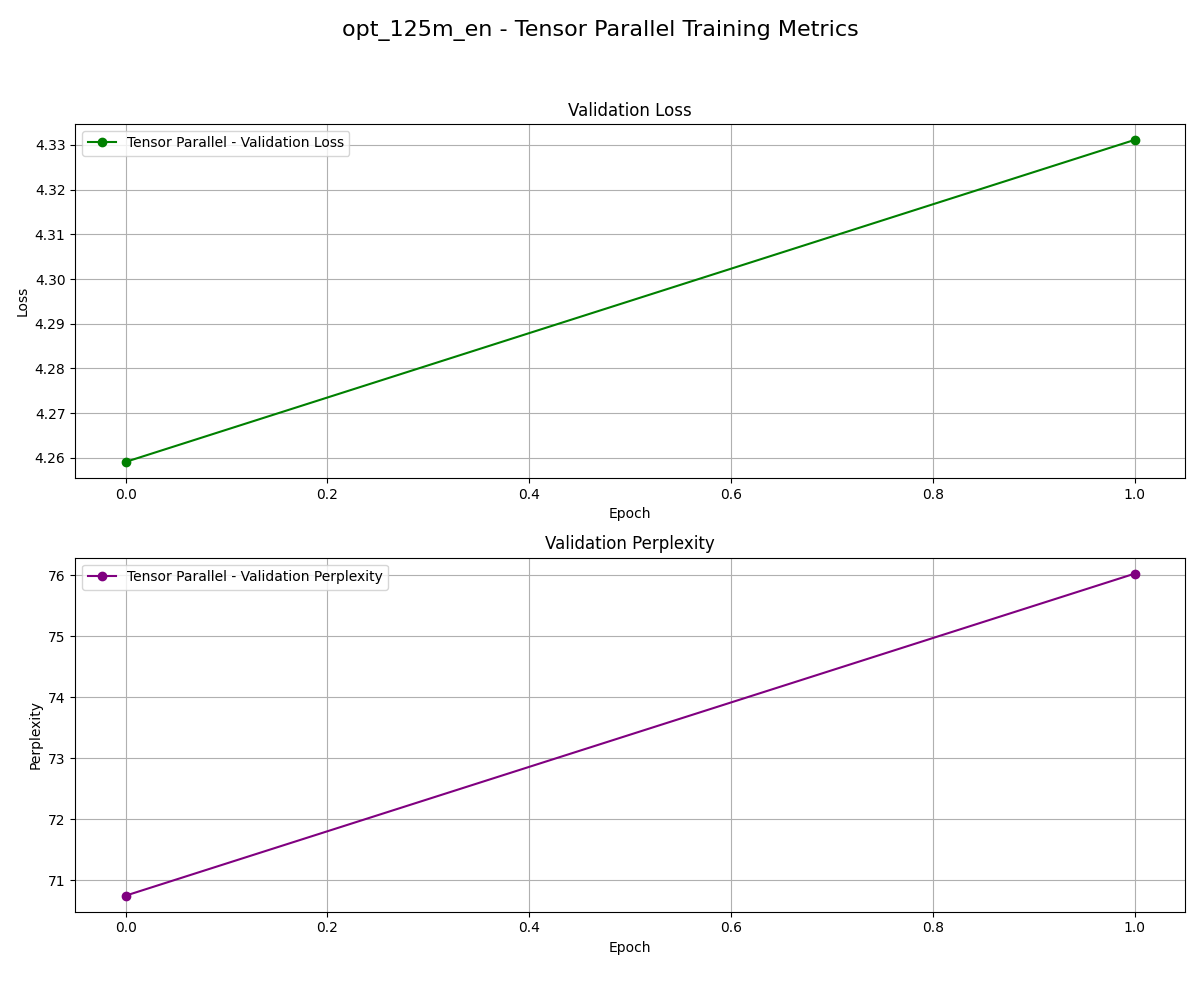
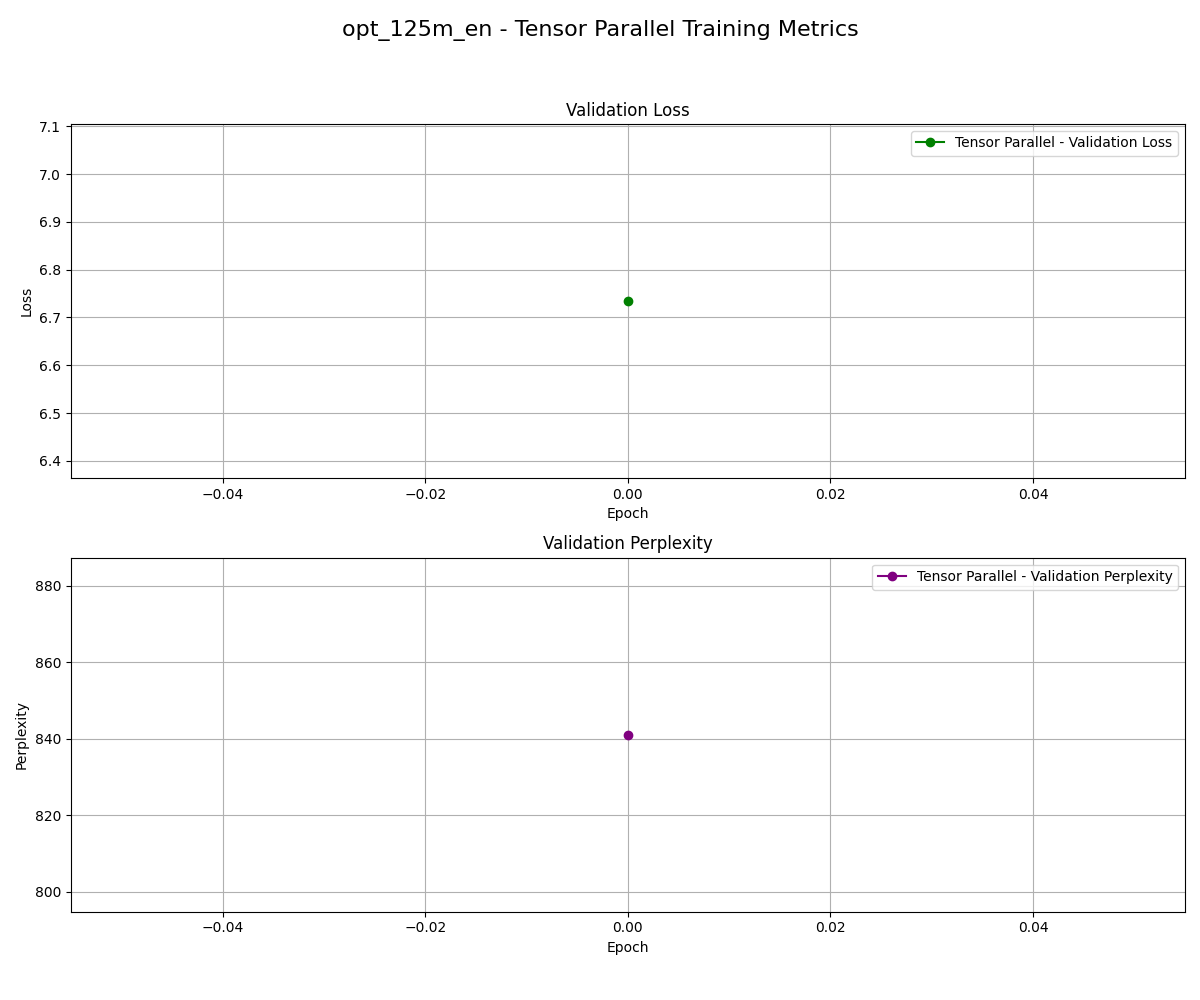
Implemeting oom solution and testing on opt 6.7b model and only loading tokenizer

diff --git a/keras/src/distribution/tensor_parallel/test_models.py b/keras/src/distribution/tensor_parallel/test_models.py
@@ -21,7 +21,8 @@ except Exception:
 
 # --- Backend and Device Configuration ---
 os.environ["KERAS_BACKEND"] = "jax"
-os.environ["XLA_FLAGS"] = "--xla_force_host_platform_device_count=12"
+# Force host device count to simulate distributed environment if physical GPUs aren't enough
+os.environ["XLA_FLAGS"] = "--xla_force_host_platform_device_count=8"
 
 import jax
 import keras_hub
@@ -31,6 +32,7 @@ import tensorflow_datasets as tfds
 
 import keras
 
+# Ensure TF doesn't hog GPU memory needed by JAX
 tf.config.set_visible_devices([], "GPU")
 
 logging.basicConfig(level=logging.INFO, format="%(levelname)s - %(message)s")
@@ -45,17 +47,18 @@ try:
     if not host_devices:
         host_devices = devices
 
-    DEVICES_AVAILABLE = len(host_devices)
+    DEVICES_AVAILABLE = len(devices)
+    # Set target world size to available GPUs (e.g. 2 on Kaggle T4x2)
     WORLD_SIZE = 2
 
     if DEVICES_AVAILABLE < WORLD_SIZE:
         logger.warning(
             f"Requested {WORLD_SIZE} devices, but only {DEVICES_AVAILABLE} available."
         )
-        TARGET_DEVICES = host_devices
+        TARGET_DEVICES = devices
         TARGET_WORLD_SIZE = DEVICES_AVAILABLE
     else:
-        TARGET_DEVICES = host_devices[:WORLD_SIZE]
+        TARGET_DEVICES = devices[:WORLD_SIZE]
         TARGET_WORLD_SIZE = WORLD_SIZE
         logger.info(
             f"Targeting the first {TARGET_WORLD_SIZE} devices for parallelism: "
@@ -69,20 +72,18 @@ except Exception as e:
 
 from keras.src.distribution import DeviceMesh
 from keras.src.distribution import AutoTPDistribution
-from keras.src.distribution.tensor_parallel.tensor_parallel_keras import (
-    TensorParallelKeras,
-)
 
 # --- Constants ---
-BATCH_SIZE = 16
+BATCH_SIZE = 8  # Reduced batch size for safety
 SEQUENCE_LENGTH = 128
 LEARNING_RATE = 1e-4
-EPOCHS = 2
+EPOCHS = 1
 STEPS_PER_EPOCH = 1
 VALIDATION_STEPS = 5
 
 MODEL_MAPPING = {
-    "opt_6.7b_en": keras_hub.models.OPTCausalLM,
+    # "opt_125m_en": keras_hub.models.OPTCausalLM,  # Smaller model for testing flow
+    "opt_6.7b_en": keras_hub.models.OPTCausalLM, # Original large model
 }
 
 # ----------------------------------------------------------------------
@@ -99,6 +100,7 @@ def load_shakespeare_dataset(model_preset):
         example["text"].decode("utf-8") for example in ds.as_numpy_iterator()
     )
 
+    # CRITICAL: Use Tokenizer, NOT the full model, to avoid GPU OOM during data prep
     tokenizer = keras_hub.models.OPTTokenizer.from_preset(
         model_preset
     )
@@ -136,20 +138,45 @@ def format_for_causal_lm(data):
     return features, labels
 
 
-# --- NEW MODEL BUILDER FUNCTION ---
+# --- NEW MODEL BUILDER FUNCTION WITH LORA FIX ---
 def model_builder_factory(preset_name, model_class):
     """Returns a callable function that builds the model, required for OOM safety."""
+    
     def model_builder(**kwargs):
         logger.info(f"Creating {preset_name} model from KerasNLP preset (inside scope)...")
-        # Ensure preprocessor=None is passed so the model builder is minimal
+        
+        # 1. Create Base Model (Sharded automatically by AutoTPDistribution scope)
+        # 'dtype' is passed in via kwargs from AutoTPDistribution
         model = model_class.from_preset(preset_name, preprocessor=None, **kwargs)
-        logger.info(f"Model created with {model.count_params():,} parameters.")
+        
+        # 2. APPLY LORA (The Optimizer OOM Fix)
+        # This drastically reduces trainable parameters (optimizer state)
+        # from ~26GB to ~100MB, fitting easily in VRAM.
+        logger.info("--- Enabling LoRA (Rank=4) ---")
+        
+        # FIX: Handle different API structures where enable_lora might be on the backbone
+        if hasattr(model, "enable_lora"):
+             model.enable_lora(rank=4)
+        elif hasattr(model, "backbone") and hasattr(model.backbone, "enable_lora"):
+             logger.info("Called enable_lora on model.backbone")
+             model.backbone.enable_lora(rank=4)
+        else:
+             logger.warning("⚠ enable_lora not found on Model or Backbone. Training full weights (OOM risk for 6.7B).")
+        
+        # FIX: Use np.prod(w.shape) instead of w.size, as Keras Variables lack .size
+        total_params = model.count_params()
+        trainable_params = sum(np.prod(w.shape) for w in model.trainable_variables)
+        
+        logger.info(f"Model created. Total params: {total_params:,}")
+        logger.info(f"Trainable params (LoRA only): {trainable_params:,}")
+        
         return model
+        
     return model_builder
 
 
 # ----------------------------------------------------------------------
-# --- Plotting Function (MODIFIED) ---
+# --- Plotting Function ---
 # ----------------------------------------------------------------------
 
 def plot_training_graphs(tp_history, preset_name):
@@ -158,13 +185,14 @@ def plot_training_graphs(tp_history, preset_name):
     fig.suptitle(f"{preset_name} - Tensor Parallel Training Metrics", fontsize=16)
 
     # Plotting Loss
-    ax1.plot(
-        tp_history.history["val_loss"],
-        label="Tensor Parallel - Validation Loss",
-        color="green",
-        linestyle="-",
-        marker="o",
-    )
+    if "val_loss" in tp_history.history:
+        ax1.plot(
+            tp_history.history["val_loss"],
+            label="Tensor Parallel - Validation Loss",
+            color="green",
+            linestyle="-",
+            marker="o",
+        )
     ax1.set_title("Validation Loss")
     ax1.set_ylabel("Loss")
     ax1.set_xlabel("Epoch")
@@ -172,13 +200,14 @@ def plot_training_graphs(tp_history, preset_name):
     ax1.grid(True)
 
     # Plotting Perplexity
-    ax2.plot(
-        tp_history.history["val_perplexity"],
-        label="Tensor Parallel - Validation Perplexity",
-        color="purple",
-        linestyle="-",
-        marker="o",
-    )
+    if "val_perplexity" in tp_history.history:
+        ax2.plot(
+            tp_history.history["val_perplexity"],
+            label="Tensor Parallel - Validation Perplexity",
+            color="purple",
+            linestyle="-",
+            marker="o",
+        )
     ax2.set_title("Validation Perplexity")
     ax2.set_ylabel("Perplexity")
     ax2.set_xlabel("Epoch")
@@ -193,7 +222,7 @@ def plot_training_graphs(tp_history, preset_name):
 
 
 # ----------------------------------------------------------------------
-# --- Main Verification Function (MODIFIED) ---
+# --- Main Verification Function ---
 # ----------------------------------------------------------------------
 
 def run_model_verification(preset_name, model_class):
@@ -228,21 +257,32 @@ def run_model_verification(preset_name, model_class):
 
     logger.info("\n--- Setting up AutoTPDistribution for OOM-Safe Build ---")
     
+    # Create mesh for 2 GPUs
     device_mesh = DeviceMesh(
         shape=(1, TARGET_WORLD_SIZE), 
         axis_names=('data', 'model'), 
         devices=TARGET_DEVICES
     )
 
+    # Prepare the builder
     model_builder_fn = model_builder_factory(preset_name, model_class)
 
-    distribution = AutoTPDistribution(model_builder_fn, device_mesh=device_mesh, dtype="float16")
+    # Initialize Strategy
+    # CRITICAL: Pass dtype="float16" to fit 6.7B model in GPU memory
+    distribution = AutoTPDistribution(
+        model_builder_fn, 
+        device_mesh=device_mesh, 
+        dtype="float16" 
+    )
     
     logger.info("\n--- Training Tensor Parallel (TP) Model (Inside Safe Scope) ---")
 
+    # Trigger safe build
     with distribution.scope():
         tp_model = distribution.model 
 
+    # Compile with AdamW
+    # Since LoRA is enabled, this optimizer will only track state for the adapters (~100MB)
     tp_model.compile(
         optimizer=keras.optimizers.AdamW(learning_rate=LEARNING_RATE),
         loss=keras.losses.SparseCategoricalCrossentropy(from_logits=True),
@@ -251,6 +291,7 @@ def run_model_verification(preset_name, model_class):
         ],
     )
 
+    # Fit
     tp_history = tp_model.fit(
         train_ds,
         validation_data=val_ds,
@@ -259,6 +300,7 @@ def run_model_verification(preset_name, model_class):
         validation_steps=VALIDATION_STEPS,
         verbose=1,
     )
+    
     tp_final_val_loss = tp_history.history["val_loss"][-1]
     logger.info("TP model training completed successfully.")
 
